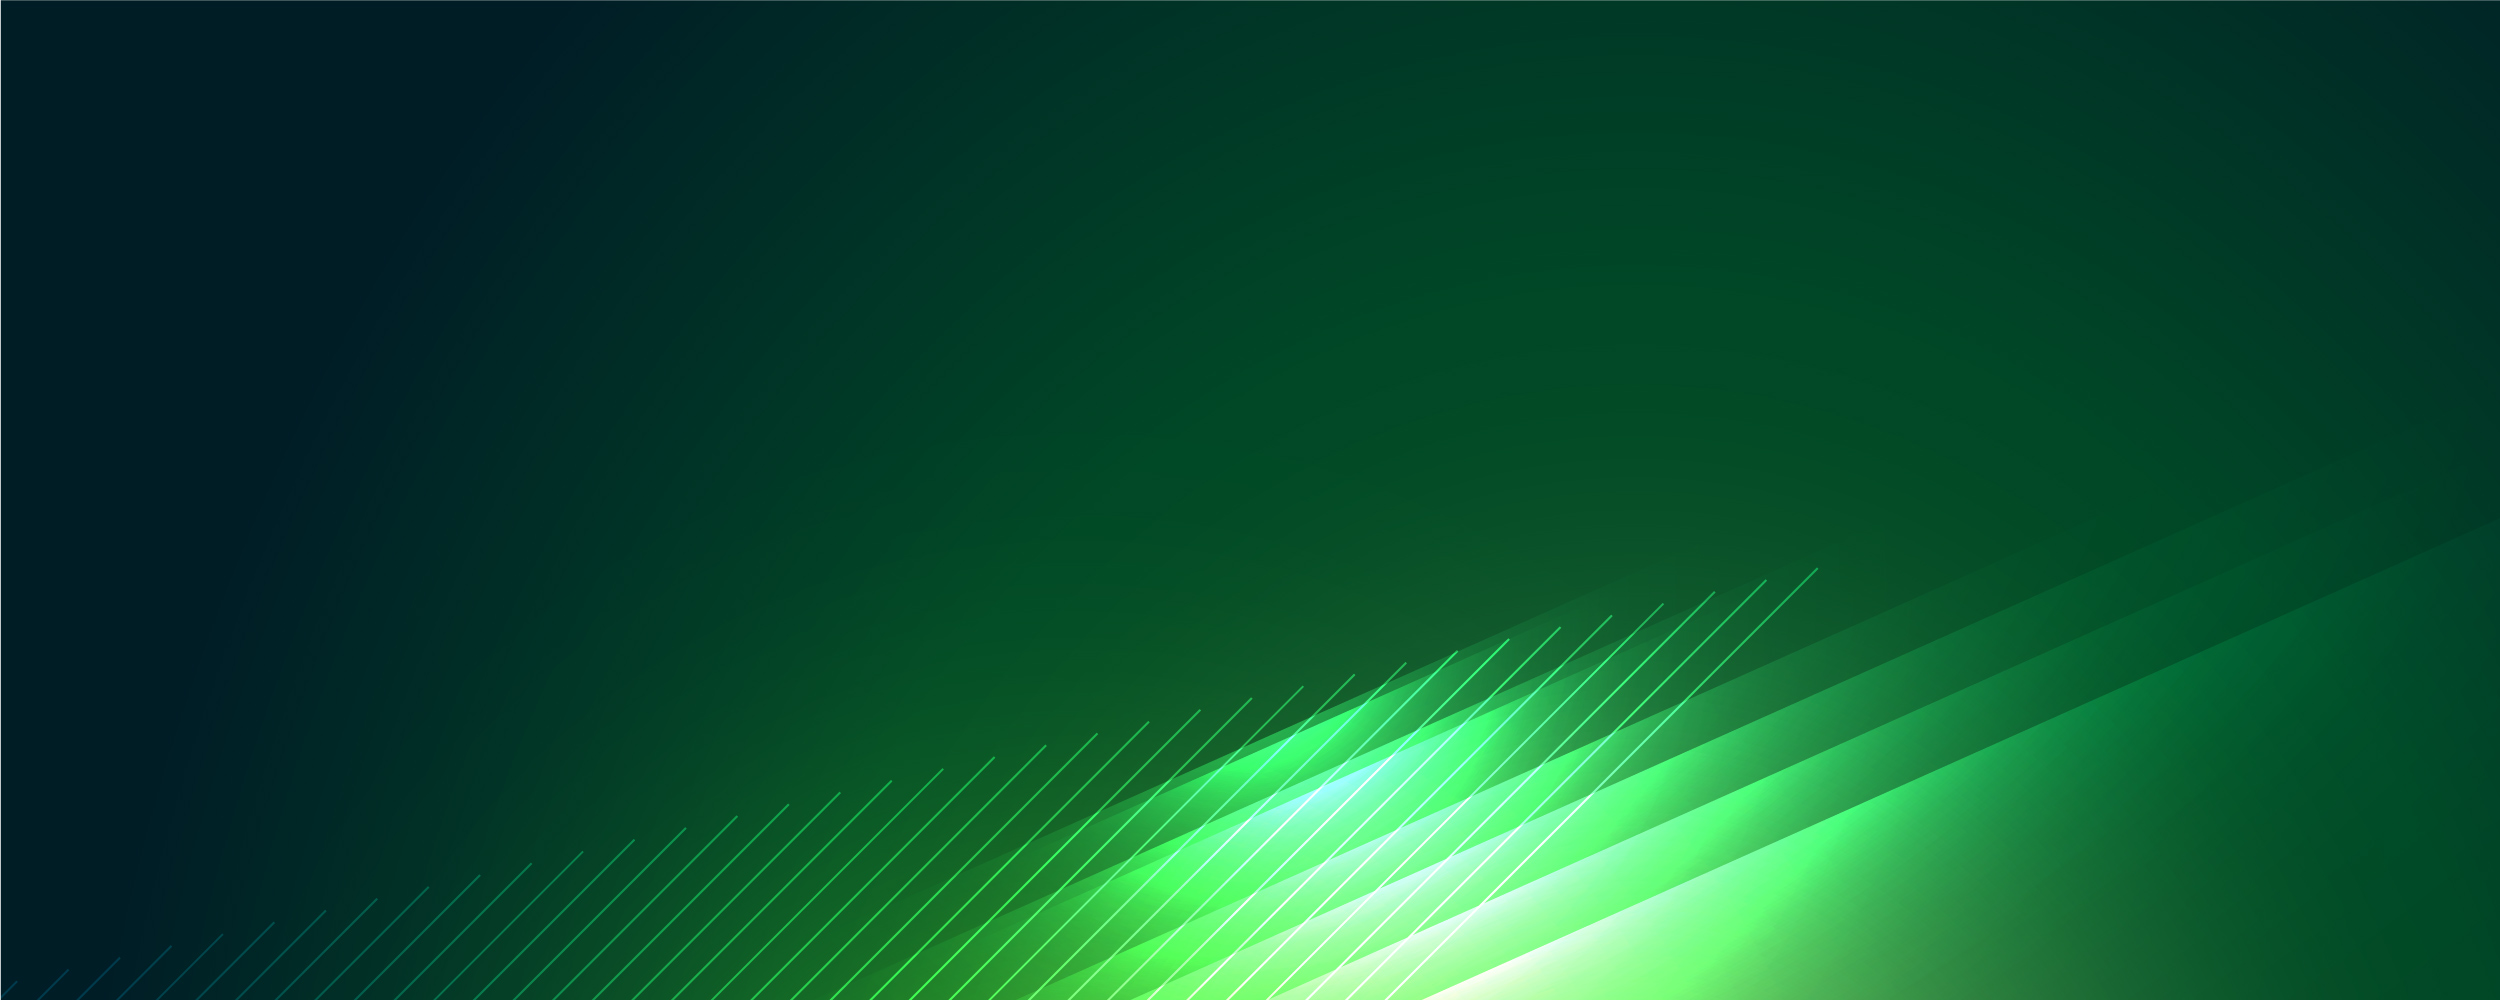
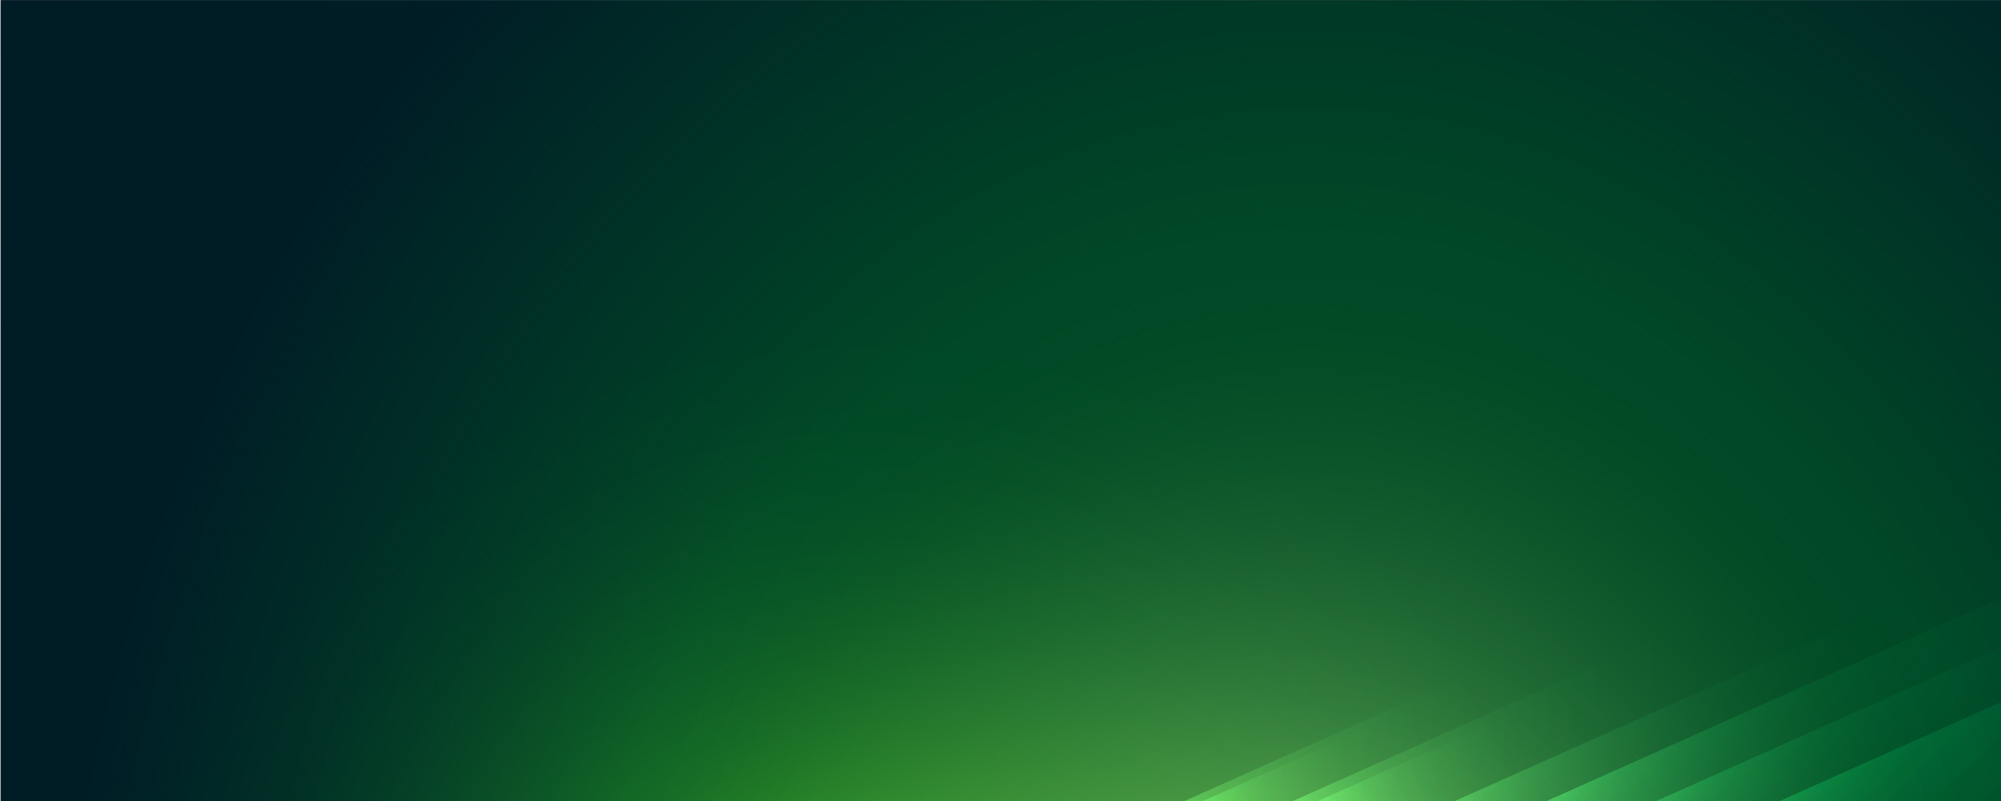
update de fondos

diff --git a/index.html b/index.html
@@ -497,14 +497,14 @@
 										<div class="row row--xs-between">
 											<!-- start item -->
 											<div class="col col--lg-3 section-heading--white align-item-center text-md-center justify-content-center" data-aos="fade-up" data-aos-delay="150">
-													<h2 class="__title text-md-center"><span style="color:#26de81" > Why</span> InstaTradex.com?</h2>
+													<h5 class="__title text-md-center letra-menor"><span style="color:#26de81" > Why</span> InstaTradex.com?</h5>
 												
 											</div>
 											<!-- end item -->
 	
 											<!-- start item -->
 											<div class="col col--lg-2 col--md-4" data-aos="fade-up" data-aos-delay="350">
-												<div class="__item" style="text-align:center;">
+												<div class="__item small-text" style="text-align:center;">
 													<img src="img/ico/devices.svg" width="50" alt="" >
 													<p>Simple and intuitive platform</p>
 												</div>
@@ -513,7 +513,7 @@
 	
 											<!-- start item -->
 											<div class="col col--lg-2 col--md-4" data-aos="fade-up" data-aos-delay="550">
-												<div class="__item" style="text-align:center;">
+												<div class="__item small-text" style="text-align:center;">
 													<img src="img/ico/investment.svg" width="50" alt="">
 													<p>10-20% Affiliate program</p>
 												</div>
@@ -521,7 +521,7 @@
 											<!-- end item -->
 											<!-- start item -->
 											<div class="col col--lg-2 col--md-4" data-aos="fade-up" data-aos-delay="750">
-													<div class="__item" style="text-align:center;">
+													<div class="__item small-text" style="text-align:center;">
 														<img src="img/ico/graph.svg" width="50" alt="" >
 														<p>Automatic Trading</p>
 													</div>
@@ -700,7 +700,7 @@
 			
 			<!-- end section -->
 			<!-- SECCION MUCKUP DE METATRADER 4 -->
-			<div class="section">
+			<div class="section bg_semicirculo">
 				<div class="grid grid--container">
 					<div class="row row--md-middle row--md-center">
 						<div class="col col--lg-10 justify-content-center" data-aos="fade-up" data-aos-delay="200">

diff --git a/css/main.css b/css/main.css
@@ -7072,6 +7072,12 @@ a {
 .linea-separador {
   border: 1px solid #d9d9d9; }
 
+.letra-menor {
+  font-size: 2.1rem !important; }
+
+.small-text p {
+  font-size: 1.15rem !important; }
+
 .h1.__title {
   font-size: 50px; }
 
@@ -7227,8 +7233,8 @@ a {
   align-items: flex-end; }
 
 .less-padding-20 {
-  padding-top: 20px;
-  padding-bottom: 40px; }
+  padding-top: 10px;
+  padding-bottom: 10px; }
 
 .company-contacts .__title {
   font-size: 32px; }
@@ -7237,6 +7243,11 @@ a {
   font-size: 16px;
   font-weight: normal;
   letter-spacing: 1px; }
+
+.bg_semicirculo {
+  background-image: url("../img/bg_semicirculo.png");
+  background-position: top;
+  background-size: cover; }
 
 .containerProfits {
   display: flex;

diff --git a/style/reset/_reset.scss b/style/reset/_reset.scss
@@ -45,6 +45,12 @@ a{
 .linea-separador{
 	border:1px solid darken($gris-claro, 10);
 }
+.letra-menor{
+	font-size:2.1rem!important;
+}
+.small-text{
+	p{font-size: 1.15rem!important;}
+}
 
 //-----------SLIDE
 .h1.__title{
@@ -271,8 +277,8 @@ a{
     align-items: flex-end;
 }
 .less-padding-20{
-	padding-top: 20px;
-    padding-bottom: 40px;
+	padding-top: 10px;
+    padding-bottom: 10px;
 }
 
 .company-contacts {
@@ -284,4 +290,12 @@ a{
 		font-weight: normal;
 		letter-spacing: 1px;
 	}
+}
+
+//semi circulo
+
+.bg_semicirculo{
+	background-image: url('../img/bg_semicirculo.png');
+	background-position: top;
+	background-size: cover;
 }
